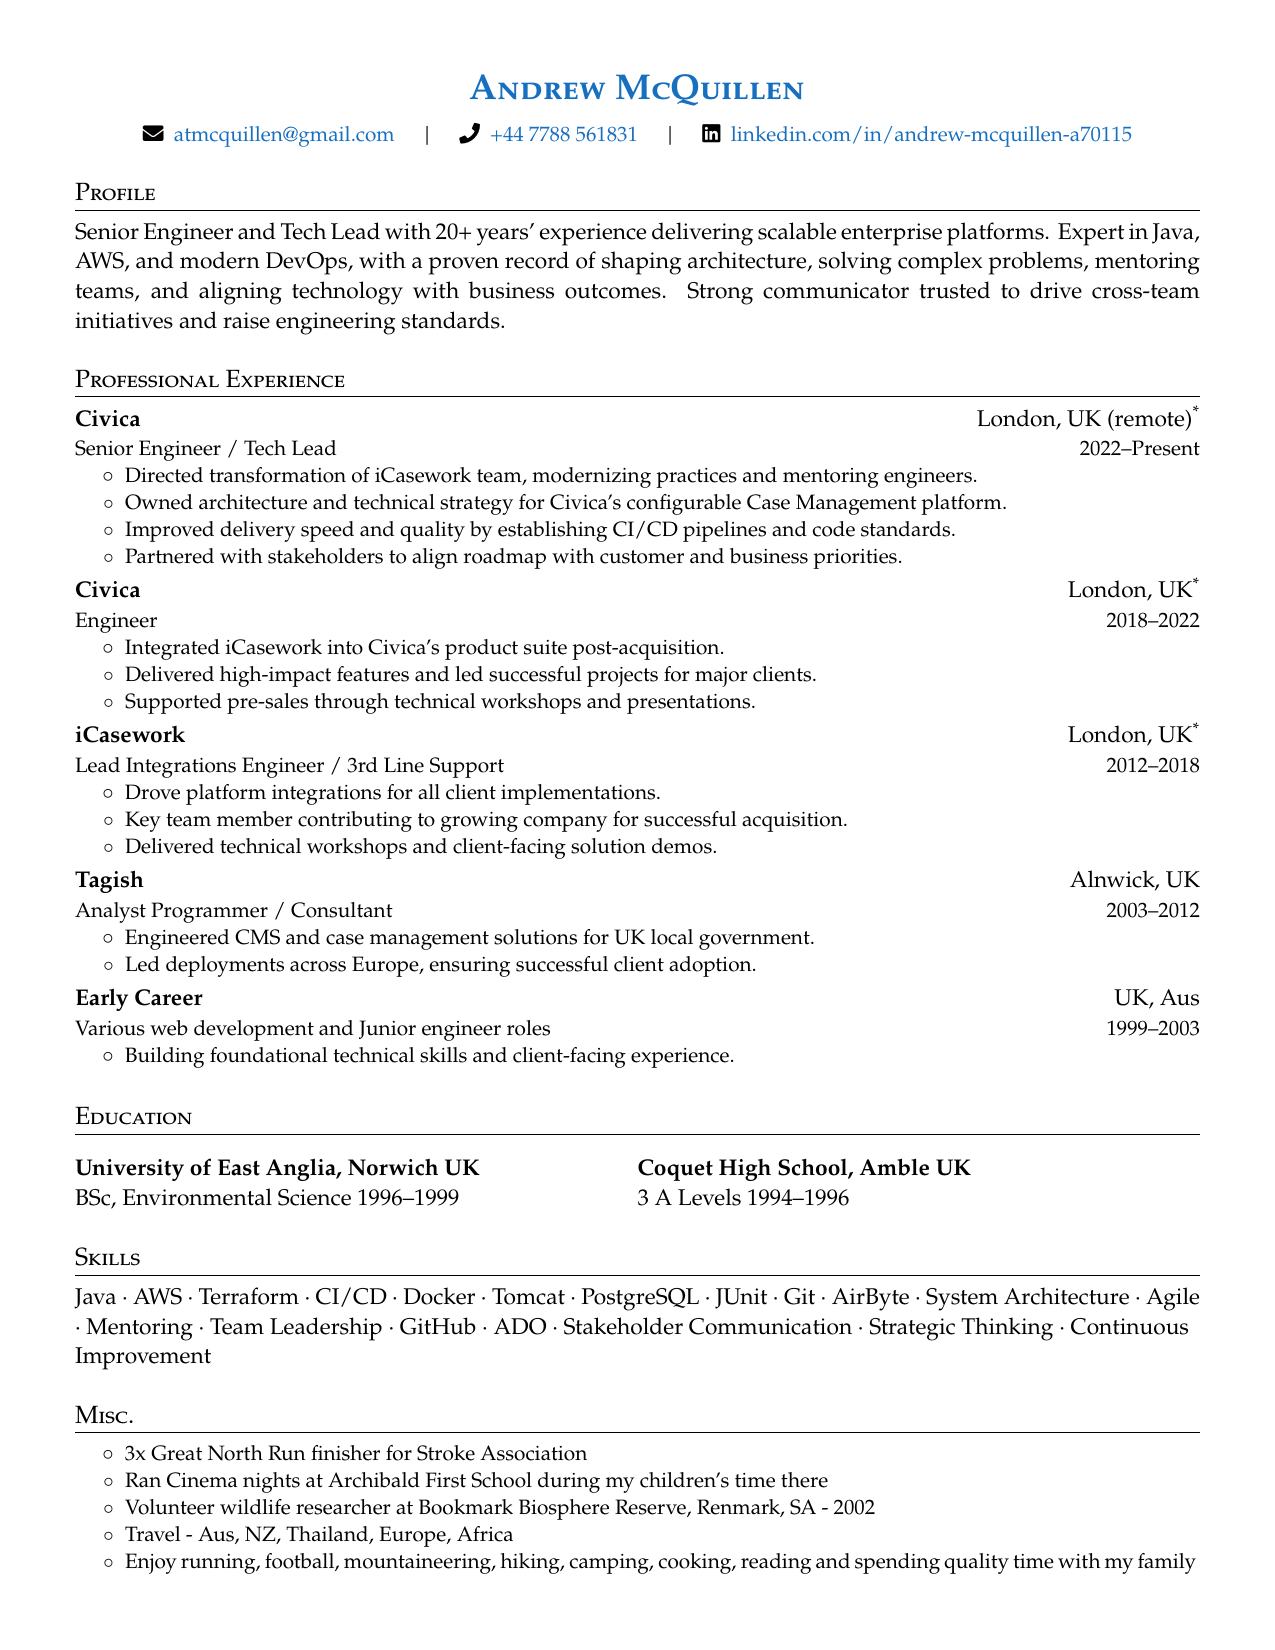
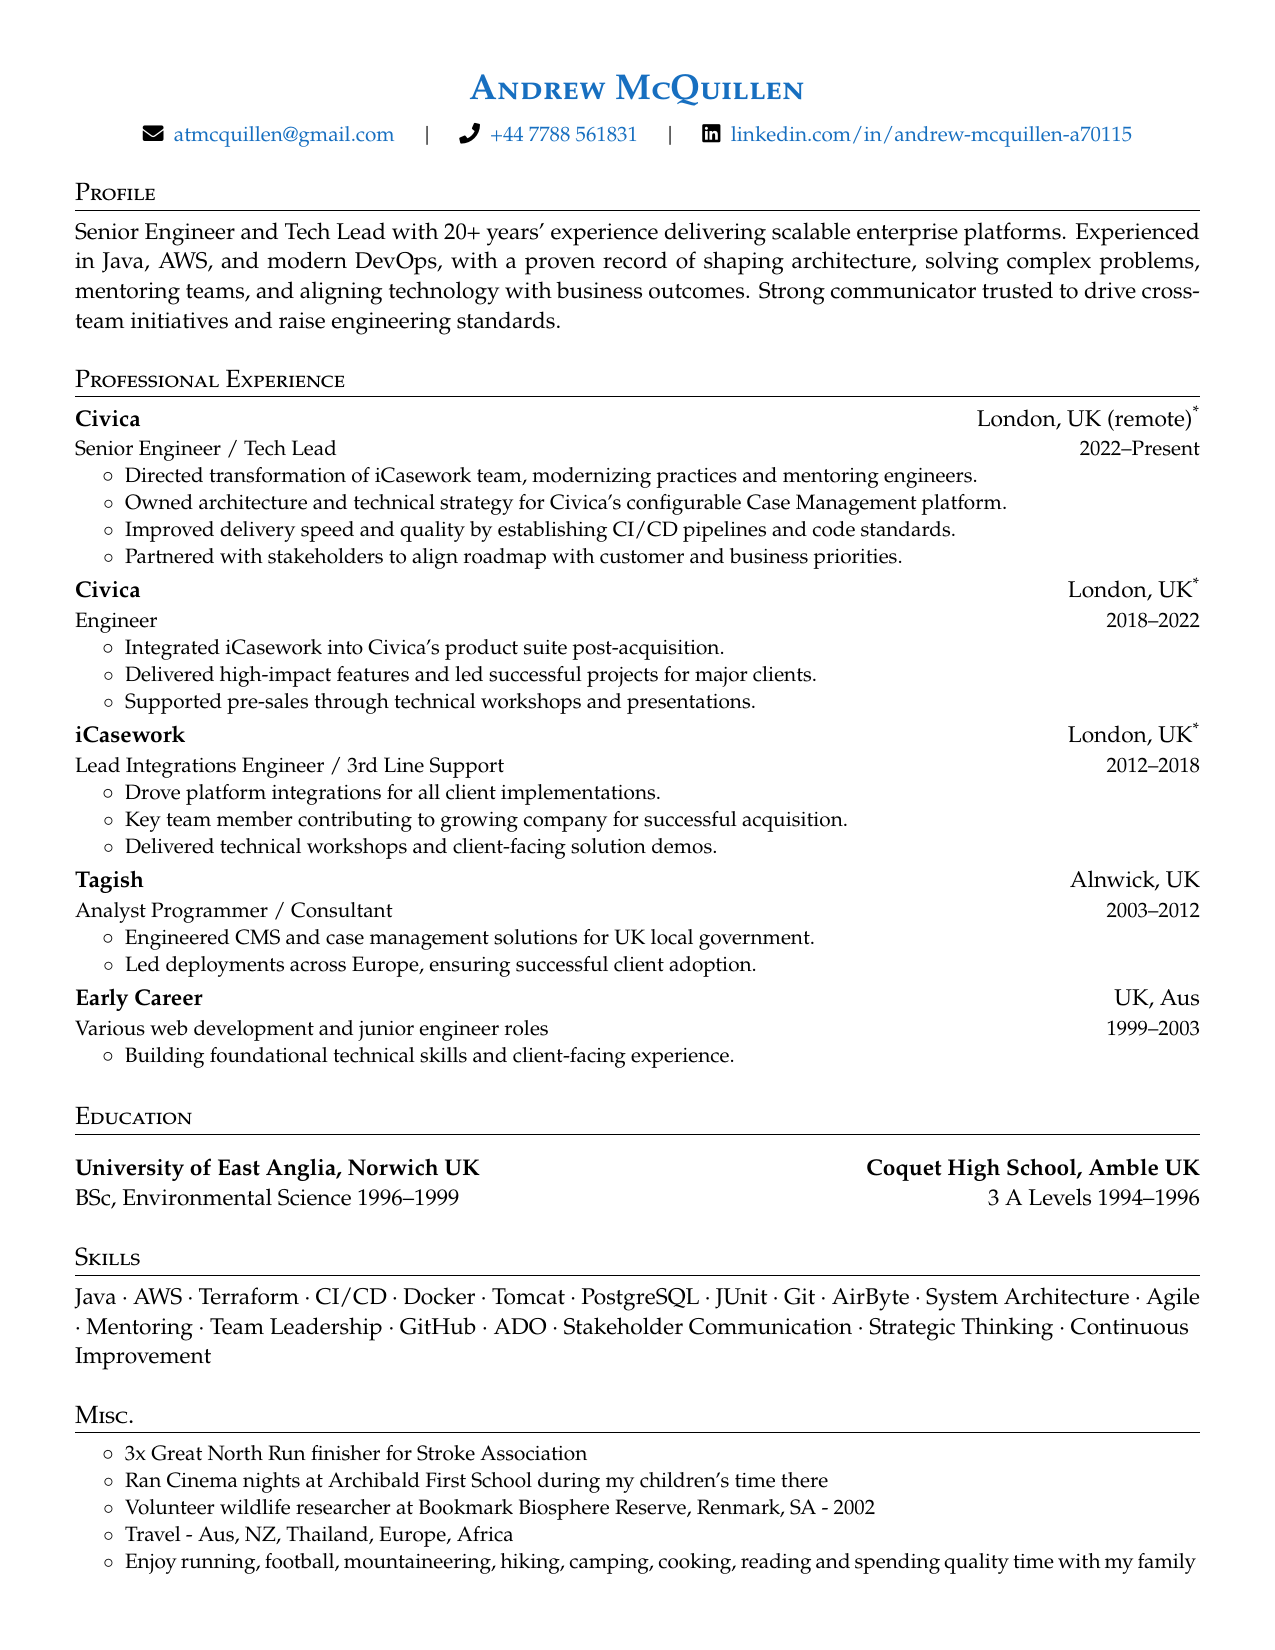
deploy: b56a7082b5b932c19a2c7059b9d07a9bb19f7882

diff --git a/main.tex b/main.tex
@@ -101,7 +101,7 @@
 \section{Profile}
 \begin{justify}
   Senior Engineer and Tech Lead with 20+ years’ experience delivering scalable 
-  enterprise platforms. Expert in Java, AWS, and modern DevOps, with a proven 
+  enterprise platforms. Experienced in Java, AWS, and modern DevOps, with a proven 
   record of shaping architecture, solving complex problems, mentoring teams, 
   and aligning technology with business outcomes. Strong communicator trusted 
   to drive cross-team initiatives and raise engineering standards.
@@ -147,13 +147,13 @@
 
   \cvheading
     {Early Career}{UK, Aus}
-    {Various web development and Junior engineer roles}{1999--2003}
+    {Various web development and junior engineer roles}{1999--2003}
   \cvitemstart
   \cvitem{Building foundational technical skills and client-facing experience.}
 \cvheadingend
 
 \section{Education}
-\begin{tabularx}{\textwidth}{X X}
+\begin{tabularx}{\textwidth}{X>{\raggedleft\arraybackslash}X}
 \textbf{University of East Anglia, Norwich UK} & \textbf{Coquet High School, Amble UK} \\
 BSc, Environmental Science 1996--1999 & 3 A Levels 1994--1996 \\
 \end{tabularx}
